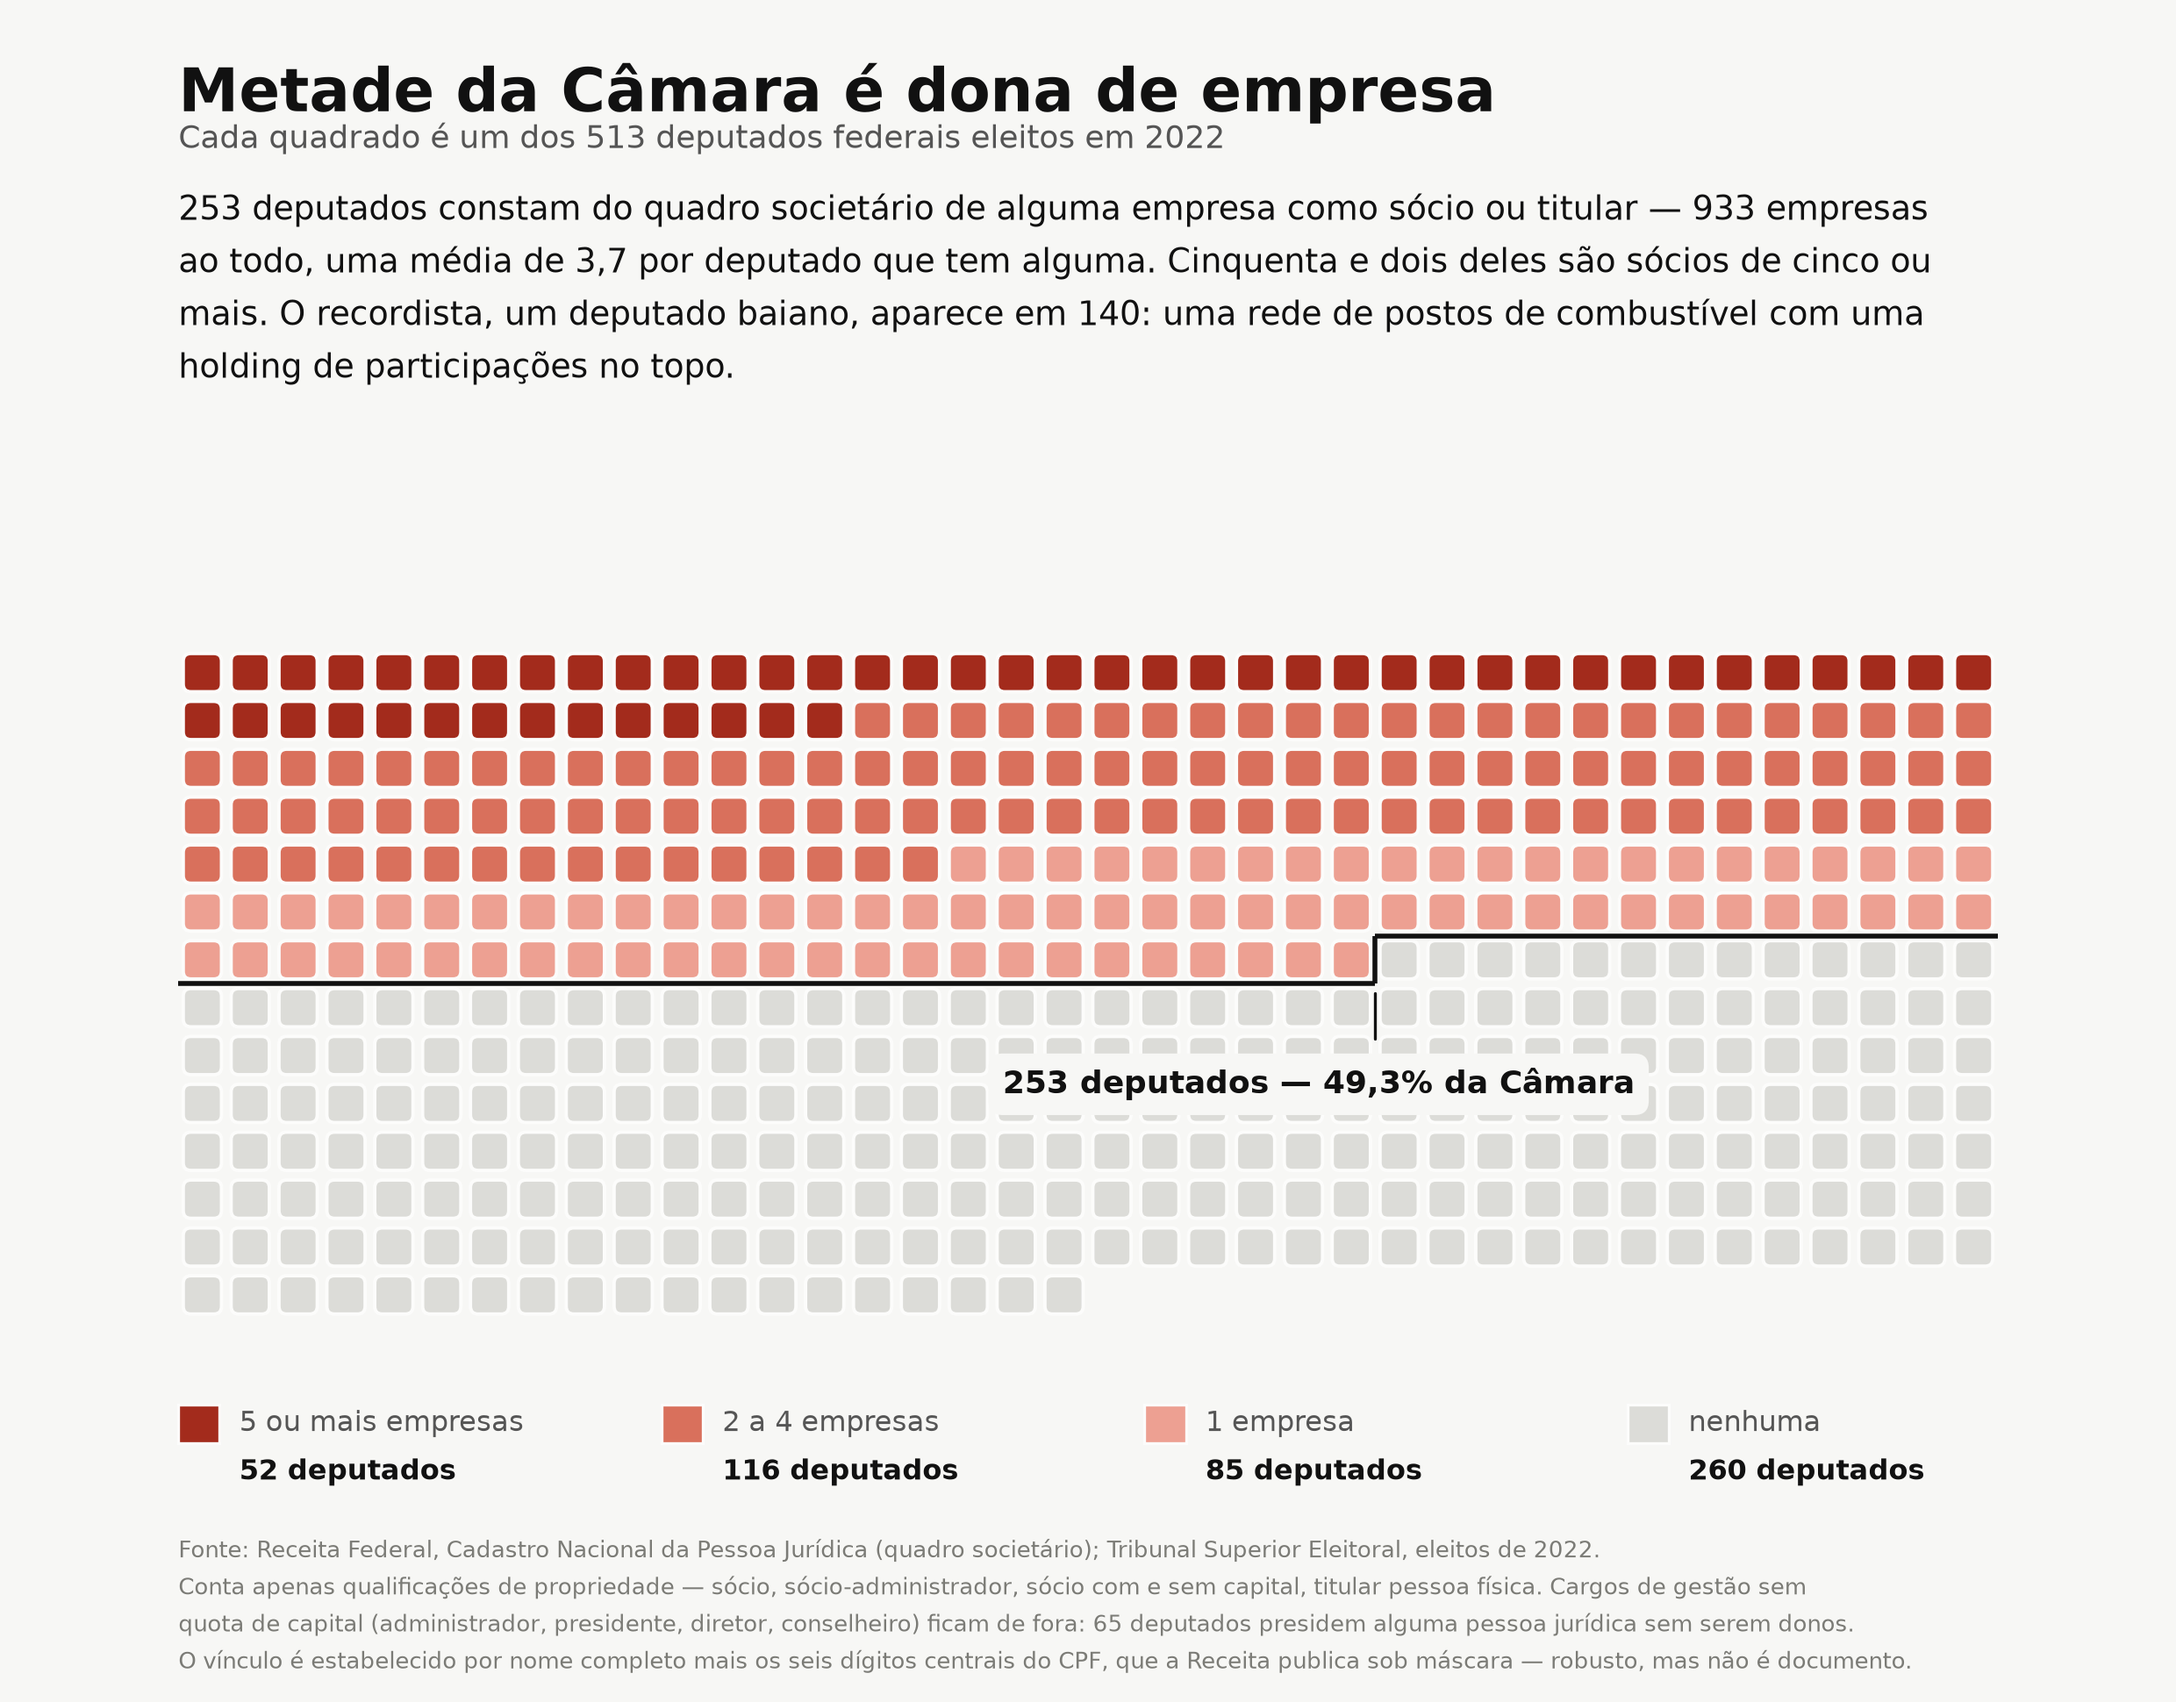
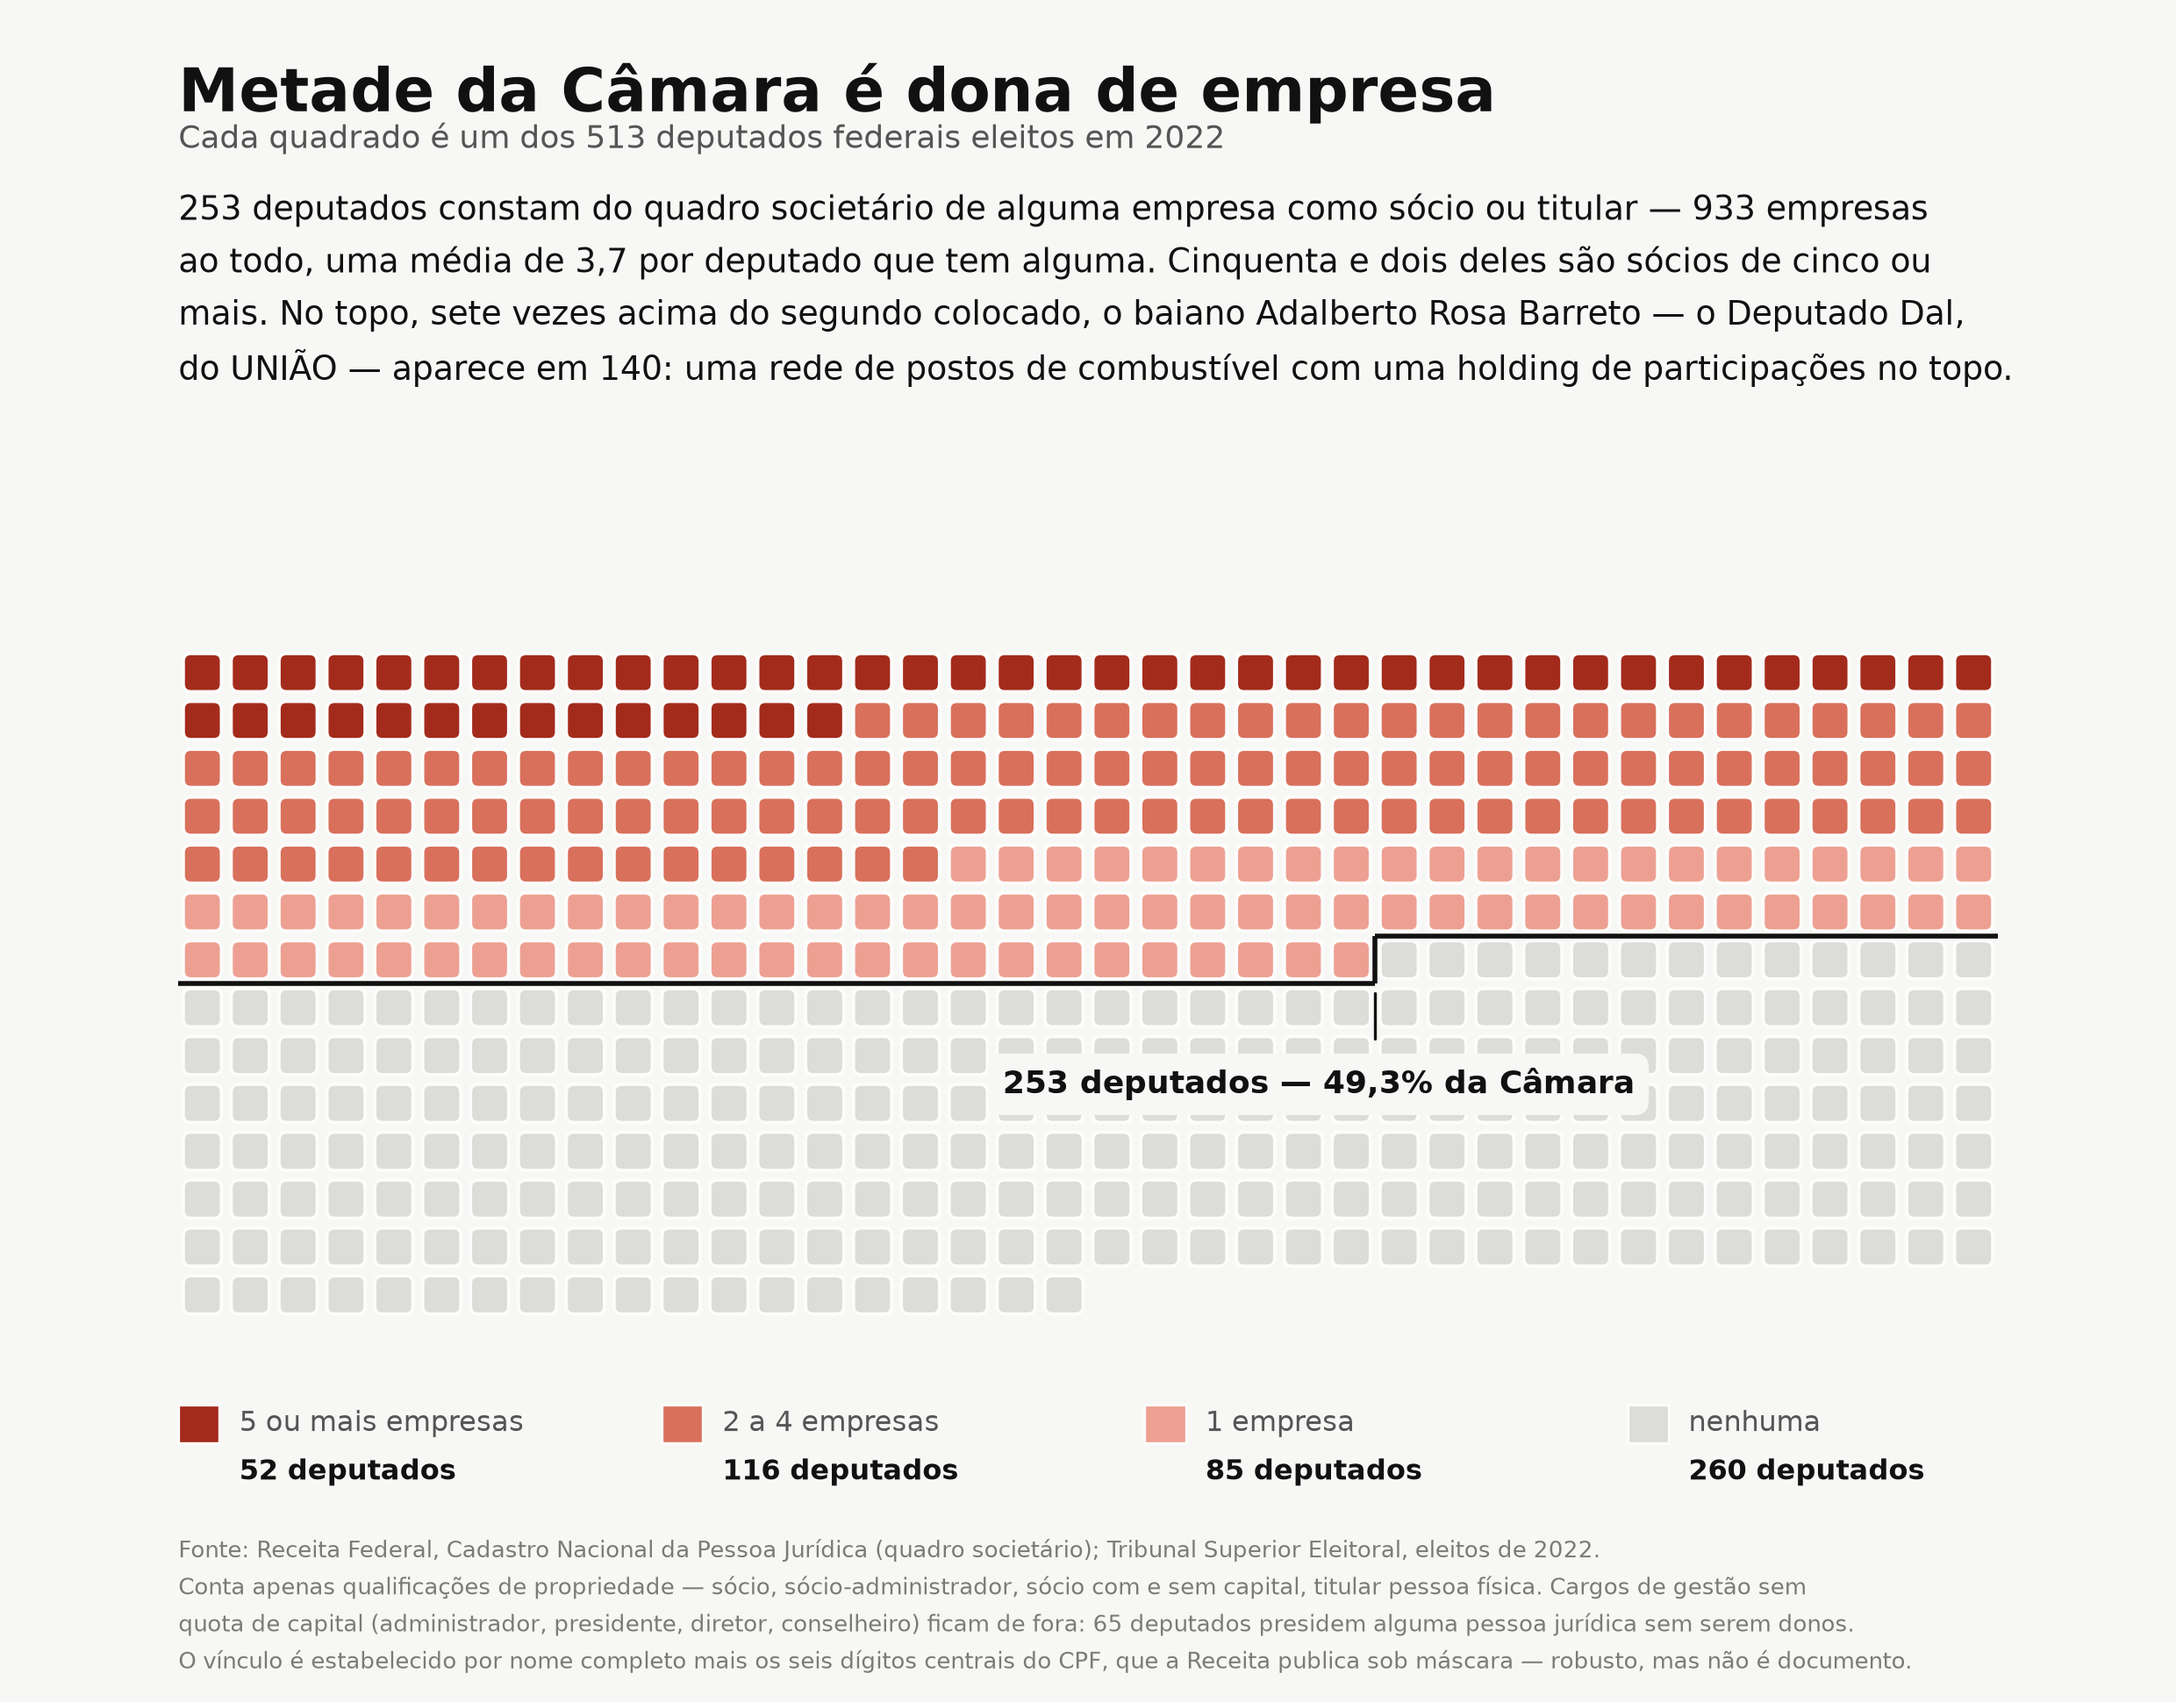
feat: nomeia os dez deputados com mais empresas e adiciona hook de publicacao
De nome ao caso que estava anonimo: o recordista de 140 empresas e Adalberto
Rosa Barreto, o Deputado Dal (BA/UNIAO), dono de uma rede de postos de
combustivel no interior da Bahia com a Barreto Participacoes Societarias no
topo. Tabela com os dez maiores, do 140 ao 10.

Cada um foi verificado contra homonimia antes de ser nomeado: em cinco dos
dez a razao social carrega o sobrenome do deputado (Barreto, Lael Varella,
Ramos Sete, Rios & Rios, Patrimonial Sao Felix) e nos demais as empresas
formam cluster setorial coerente. O setimo colocado se elege como "Glaustin
da Fokus" — Fokus e a marca da distribuidora de que e socio.

Tres deles ja apareciam na primeira metade da analise entre os 39 cujo
crescimento patrimonial supera o subsidio do mandato.

Hook de pre-commit versionado em scripts/hooks/: quando o commit toca
manifest.json ou um .md de analise, roda gera_analises.py e traz para o
commit as paginas, cartoes e sitemap regenerados. Aborta o commit se a
pipeline falhar, em vez de subir sitemap desatualizado. Os slugs afetados
sao derivados do que esta no stage, para nao arrastar a regeneracao de
analises com alteracao pendente no diretorio de trabalho.

Ativar no clone: git config core.hooksPath scripts/hooks

Changed region(s): [[0.0931, 0.1546, 0.9004, 0.2474]]

diff --git a/scripts/plot_deputados_com_empresa.py b/scripts/plot_deputados_com_empresa.py
@@ -146,8 +146,8 @@ fig.text(0.082, 0.928,
 fig.text(0.082, 0.892,
          "253 deputados constam do quadro societário de alguma empresa como sócio ou titular — 933 empresas\n"
          "ao todo, uma média de 3,7 por deputado que tem alguma. Cinquenta e dois deles são sócios de cinco ou\n"
-         "mais. O recordista, um deputado baiano, aparece em 140: uma rede de postos de combustível com uma\n"
-         "holding de participações no topo.",
+         "mais. No topo, sete vezes acima do segundo colocado, o baiano Adalberto Rosa Barreto — o Deputado Dal,\n"
+         "do UNIÃO — aparece em 140: uma rede de postos de combustível com uma holding de participações no topo.",
          ha="left", va="top", fontsize=13.5, color=TXT, linespacing=1.6)
 
 fig.text(0.082, 0.100,

diff --git a/pages/analises/results/o-salario-nao-explica.md b/pages/analises/results/o-salario-nao-explica.md
@@ -201,13 +201,38 @@ empresa** na condição de proprietário. Somadas, são **933 empresas**, média
 deputado que tem alguma.
 
 A distribuição é desigual como tudo o mais aqui. Oitenta e cinco deputados têm uma empresa só.
-Cento e dezesseis têm de duas a quatro. E **52 são sócios de cinco ou mais** — entre eles, dez
-com mais de dez empresas cada.
+Cento e dezesseis têm de duas a quatro. E **52 são sócios de cinco ou mais**.
 
-O recordista é um deputado baiano que aparece em **140 empresas**: uma rede de postos de
-combustível espalhada pelo interior da Bahia, com uma holding de participações societárias no
-topo da estrutura. Não é anomalia de dado — as razões sociais são internamente coerentes, todas
-do mesmo ramo, o que é justamente o que se espera de um grupo empresarial real.
+No topo, muito acima de todo mundo, está **Deputado Dal** (Adalberto Rosa Barreto, BA · UNIÃO),
+sócio de **140 empresas** — sete vezes o segundo colocado. É uma rede de postos de combustível
+espalhada pelo interior da Bahia — Auto Posto Pioneiro, Rede de Postos Poeirão, Auto Posto
+Chapadão, Nacional Posto de Combustíveis, dezenas de outros — com a **Barreto Participações
+Societárias** no topo da estrutura e uma distribuidora de derivados de petróleo ao lado. Não é
+anomalia de dado: as razões sociais são todas do mesmo ramo e a holding carrega o sobrenome,
+que é exatamente o padrão de um grupo empresarial real.
+
+| # | Deputado | UF · partido | empresas | ramo predominante |
+|---|---|---|---:|---|
+| 1 | **Deputado Dal** (Adalberto Rosa Barreto) | BA · UNIÃO | 140 | postos de combustível, holding |
+| 2 | **Magda Mofatto** | GO · PL | 20 | hotelaria e turismo (grupo Di Roma) |
+| 3 | **Professor Alcides** (Alcides Ribeiro Filho) | GO · PL | 18 | faculdade e combustíveis |
+| 4 | **Misael Varella** | MG · PSD | 15 | grupo Lael Varella |
+| 5 | **Pinheirinho** (Antonio Pinheiro Neto) | MG · PP | 15 | postos e construção |
+| 6 | **Duda Ramos** | RR · MDB | 12 | administradoras, táxi aéreo |
+| 7 | **Glaustin da Fokus** (Glauskston Batista Rios) | GO · PSC | 12 | participações, distribuição |
+| 8 | **Jorge Goetten** | SC · PL | 11 | vigilância e serviços |
+| 9 | **Gutemberg Reis** | RJ · MDB | 11 | construção e locação |
+| 10 | **Félix Mendonça** | BA · PDT | 10 | empreendimentos e agropecuária |
+
+A lista se valida sozinha, e essa é a melhor defesa contra homonímia: em cinco dos dez casos a
+empresa carrega o sobrenome do deputado — Barreto Participações, Lael Varella, Ramos Sete,
+Rios & Rios, Patrimonial São Félix. E o sétimo colocado é eleito com o nome de urna
+**"Glaustin da Fokus"**: Fokus é a marca da distribuidora de que ele é sócio. O parlamentar
+levou o nome da própria empresa para a urna.
+
+Dois nomes dessa tabela já apareceram na primeira metade desta análise por outro motivo: Misael
+Varella e Glaustin da Fokus estão entre os 39 cujo crescimento patrimonial supera o subsídio do
+mandato. Magda Mofatto também.
 
 Uma distinção que muda o número, e que é fácil errar: **ser administrador de uma empresa não é
 ser dono dela**. O cadastro da Receita registra tanto quem detém quotas quanto quem apenas
